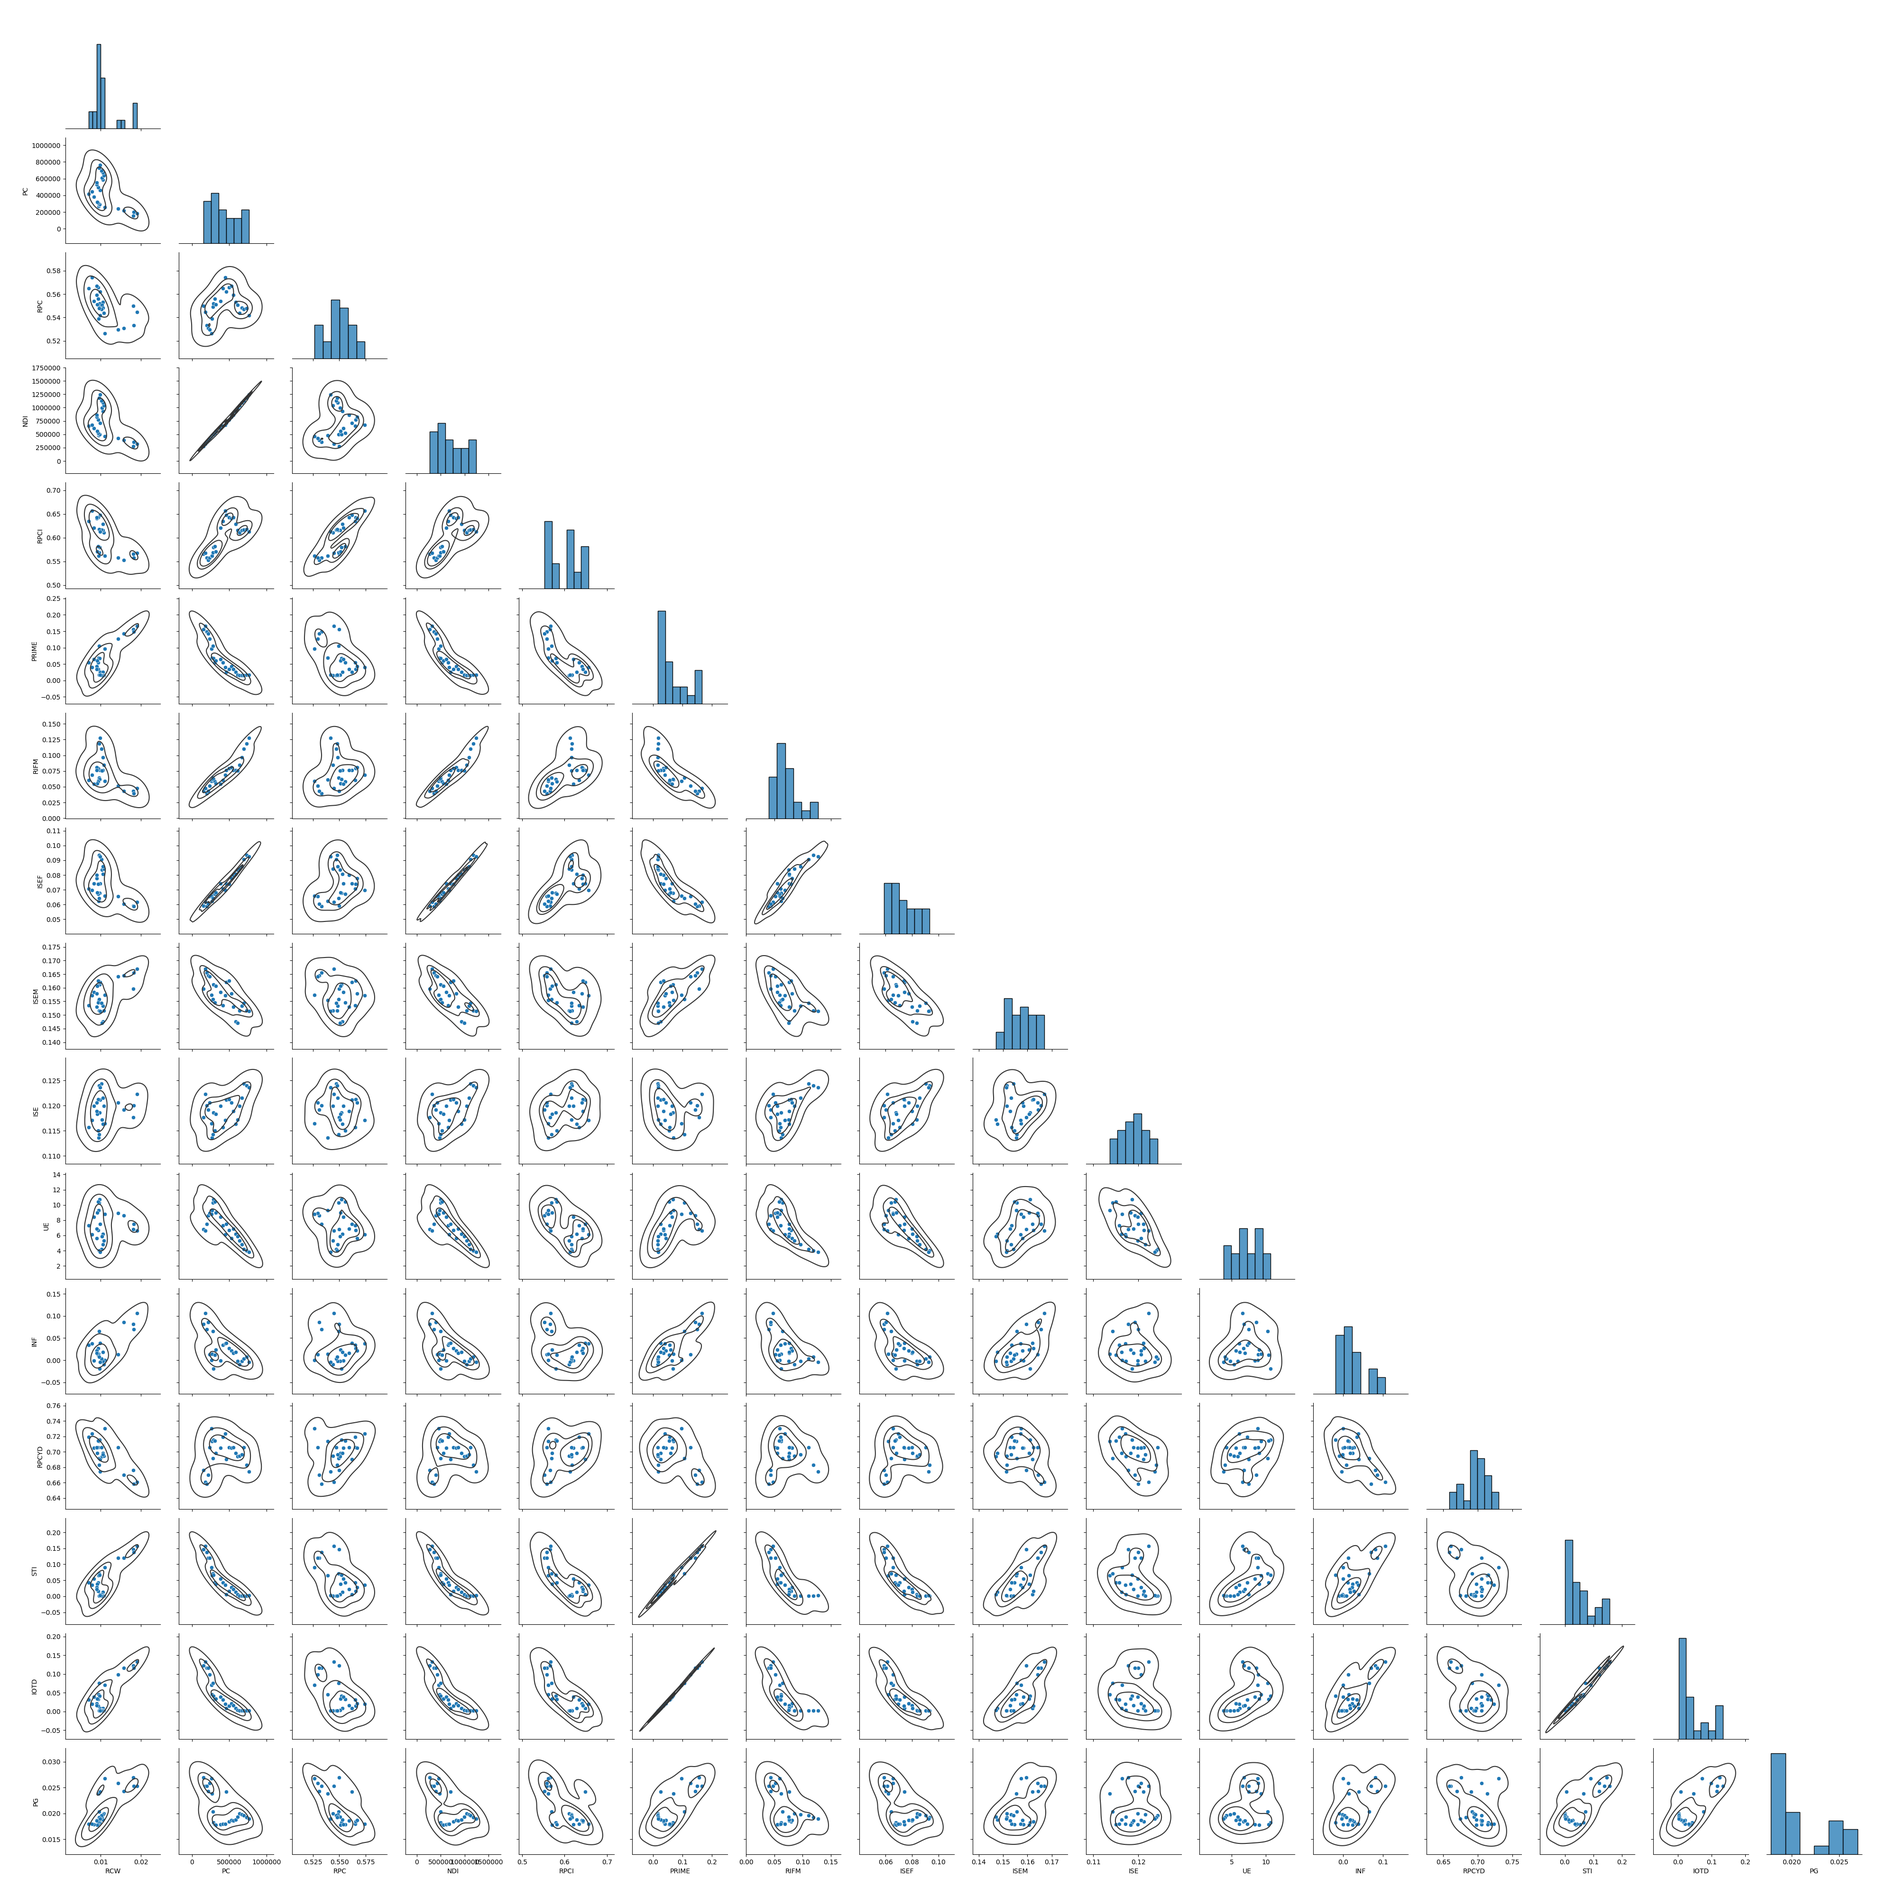
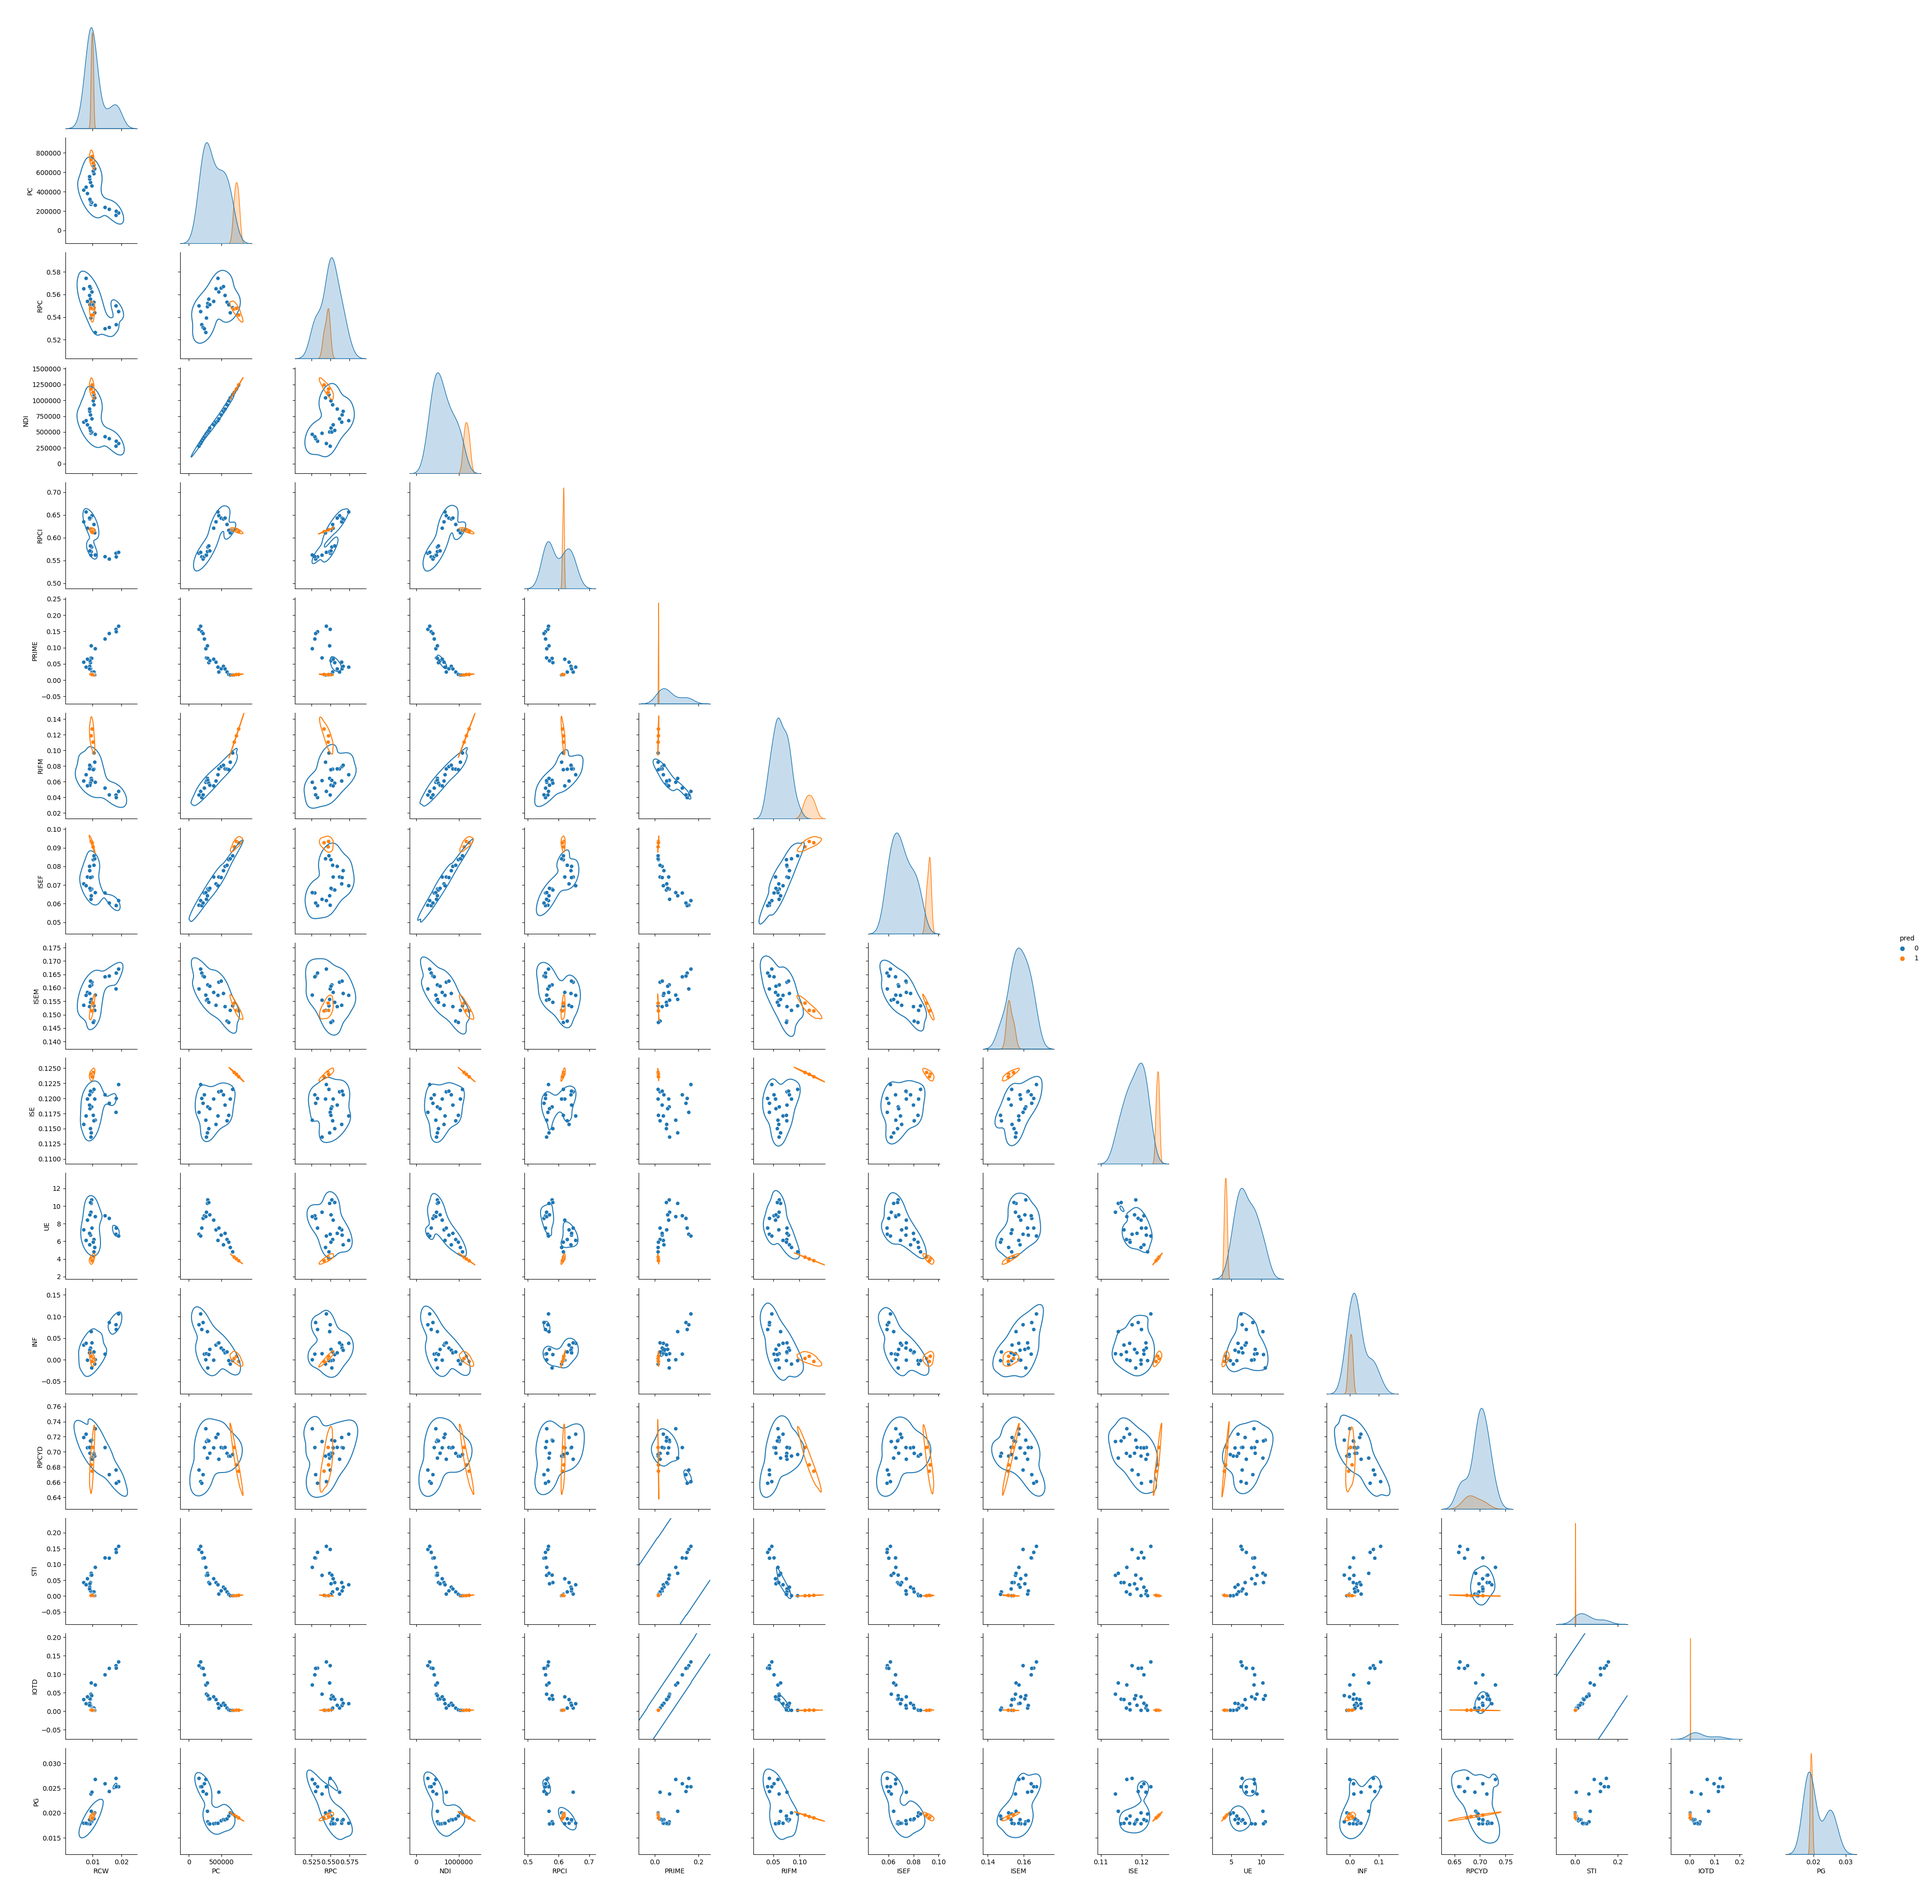
lastest graphs

diff --git a/main.py b/main.py
@@ -53,9 +53,14 @@ class Main:
         dfs = Main.prepare_data()
         predict_col_name = "RCW"
 
-        for key, df in dfs.items():
-            PlotManager.analyze_data(df=df,
-                                     model_type=key)
+        if False:
+            for key, df in dfs.items():
+                print("Print analysis for {} data set".format(key))
+                new_df = df
+                new_df["pred"] = new_df["YEAR"].apply(lambda x: 0 if x < Main.END_YEAR - Main.SAMPLES_STEP_SIZE + 1 else 1)
+                new_df.drop(["YEAR"], axis=1, inplace=True)
+                PlotManager.analyze_data(df=df,
+                                         model_type=key)
 
         if not os.path.exists(Main.ANSWER_FILE_PATH):
             with open(Main.ANSWER_FILE_PATH, "w") as answer_file:
@@ -74,7 +79,7 @@ class Main:
                     print("Working on {} train points and {} test points".format(train_size, Main.SAMPLES_STEP_SIZE))
                     for key, df in dfs.items():
                         print("Working on df = {}".format(key))
-                        x = df.drop([predict_col_name], axis=1)
+                        x = df.drop([predict_col_name, "YEAR"], axis=1)
                         y = df[predict_col_name]
 
                         predictor = MLmodel(x_train=x.head(train_size),
@@ -140,7 +145,7 @@ class Main:
         Prepare the data from the file as 4 data sets to work upon
         """
         df = pd.read_csv("data.csv")
-        df = df.drop(['YEAR', 'CW', 'ISEF1', 'ISEM1', 'ISE1', 'RPCYDCORRECTED', 'RPCYDN', 'VOP'], axis=1)
+        df = df.drop(['CW', 'ISEF1', 'ISEM1', 'ISE1', 'RPCYDCORRECTED', 'RPCYDN', 'VOP'], axis=1)
         df_no_tax = df.drop(['TAX', 'TD', 'TI', 'TR1', 'TR2', 'TOG'], axis=1)
         df_no_crime = df.drop(['RIFM'], axis=1)
         df_no_self_employ = df.drop(['ISEF', 'ISEM', 'ISE'], axis=1)

diff --git a/plot_manager.py b/plot_manager.py
@@ -19,8 +19,8 @@ class PlotManager:
     @staticmethod
     def analyze_data(df, model_type):
 
-        g = sns.pairplot(df, corner=True)
-        g.map_lower(sns.kdeplot, levels=4, color=".2")
+        g = sns.pairplot(df, corner=True, hue="pred")
+        g.map_lower(sns.kdeplot, levels=1, color=".2")
         plt.savefig(os.path.join(PlotManager.results_folder,
                                  "data_pair_lot_{}.png".format(model_type)))
         plt.close()
@@ -33,8 +33,6 @@ class PlotManager:
         plt.savefig(os.path.join(PlotManager.results_folder,
                                  "data_features_heat_map_{}.png".format(model_type)))
         plt.close()
-
-
 
     @staticmethod
     def plot_compare(x, y_list, models_names, train_size):
@@ -51,7 +49,7 @@ class PlotManager:
                 min_min = min(y)
             if max(y) > max_max:
                 max_max = max(y)
-        plt.plot([x[train_size], x[train_size]],
+        plt.plot([(x[train_size] + x[train_size+1])/2, (x[train_size] + x[train_size+1])/2],
                  [min_min * 0.95, max_max * 1.05],
                  c="gray",
                  markersize=8,
@@ -78,7 +76,6 @@ class PlotManager:
             if max(y[train_size+1:]) > max_max:
                 max_max = max(y[train_size+1:])
         plt.xlabel("Year (t)")
-        plt.set_xticks(x[train_size+1:])
         plt.ylabel("RCW value")
         plt.ylim(min_min*0.95, max_max*1.05)
         plt.legend()
